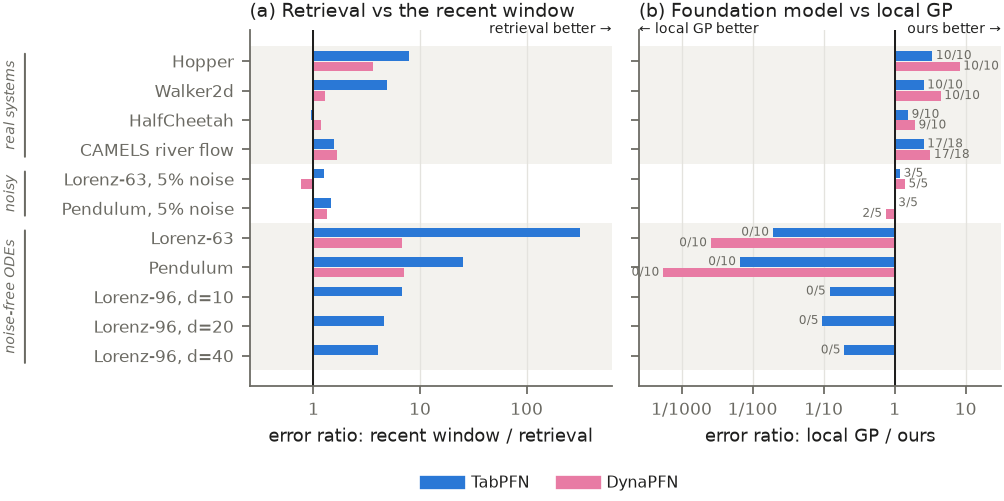
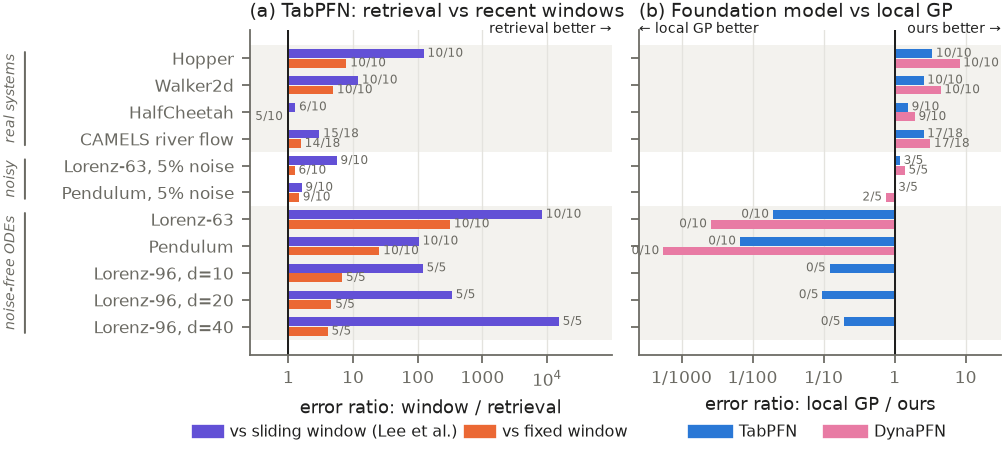
Figure 1a: retrieval vs the sliding window of Lee et al. and the fixed window

diff --git a/code/paper_figures.py b/code/paper_figures.py
@@ -119,18 +119,24 @@ def fig_regime(rows, macros):
     T["window"] = {k: {s_: float(np.sqrt(max(1 - v, 1e-12))) for s_, v in d.items() if np.isfinite(v)}
                    for k, d in N.items()}
     n = len(REGIME_ROWS)
-    fig, (ax, bx) = plt.subplots(1, 2, figsize=(6.5, 3.15), sharey=True)
+    fig, (ax, bx) = plt.subplots(1, 2, figsize=(6.5, 2.95), sharey=True)
     w = 0.36
     for i, (lab, h, st, H, sd) in enumerate(REGIME_ROWS):
         key = "Regime" + MACRO[lab]
-        # (a) retrieval vs recent window, same model; noisy rows use one observation as input (the
-        # lagged runs have no recent-window arm)
+        # (a) TabPFN with retrieval vs the sliding window of Lee et al. and vs the fixed recent window
+        # (same model, same H = 100); noisy rows use one observation as input (the lagged runs have
+        # no recent-window arm)
         st_a = st.replace("+lags4", "") if "noise" in st else st
-        for j, (mdl, c) in enumerate([("tabpfn", BLUE), ("dynapfn", MAGENTA)]):
-            r, b, nn = paired_ratio(T[h], st_a, ("retrieval", 100, mdl), ("recent", 100, mdl))
+        for j, (ctx, c) in enumerate([("sliding", VIOLET), ("recent", ORANGE)]):
+            r, b, nn = paired_ratio(T[h], st_a, ("retrieval", 100, "tabpfn"), (ctx, 100, "tabpfn"))
             if np.isfinite(r):
-                ax.barh(i + (j - 0.5) * w, np.log10(r), height=w * 0.92, color=c)
-                macros[f"{key}RetRecent{'Tab' if j == 0 else 'Dyna'}"] = f"{r:.1f}" if r < 100 else f"{r:.0f}"
+                y = i + (j - 0.5) * w
+                ax.barh(y, np.log10(r), height=w * 0.92, color=c)
+                ax.text(np.log10(r) + (0.06 if r > 1 else -0.06), y, f"{b}/{nn}", fontsize=5.6, color=MUTED,
+                        va="center", ha="left" if r > 1 else "right")
+                tag = "Recent" if ctx == "recent" else "Sliding"
+                macros[f"{key}Ret{tag}Tab"] = f"{r:.1f}" if r < 100 else f"{r:.0f}"
+                macros[f"{key}Ret{tag}TabBetter"] = f"{b}/{nn}"
         # (b) local GP / ours, both with retrieved context
         for j, (mdl, c) in enumerate([("tabpfn", BLUE), ("dynapfn", MAGENTA)]):
             r, b, nn = paired_ratio(T[h], st, ("retrieval", H, mdl), ("retrieval", H, "gp"), sd)
@@ -143,16 +149,18 @@ def fig_regime(rows, macros):
                 macros[f"{key}GPOver{tag}"] = f"{r:.1f}"
                 macros[f"{key}GPOver{tag}Better"] = f"{b}/{nn}"
                 macros[f"{key}GPBetterThan{tag}"] = f"{1 / r:.0f}" if r < 0.1 else f"{1 / r:.1f}"
-    for a_, xl, ttl in [(ax, "error ratio: recent window / retrieval", "(a) Retrieval vs the recent window"),
-                        (bx, "error ratio: local GP / ours", "(b) Foundation model vs local GP")]:
+    for a_, xl, ttl, ticks in [(ax, "error ratio: window / retrieval", "(a) TabPFN: retrieval vs recent windows",
+                                [0, 1, 2, 3, 4]),
+                               (bx, "error ratio: local GP / ours", "(b) Foundation model vs local GP",
+                                [-3, -2, -1, 0, 1])]:
         a_.axvline(0, color=INK, lw=0.9)
         a_.set_title(ttl, loc="left"); a_.set_xlabel(xl); a_.grid(axis="y", visible=False)
-        ticks = [-3, -2, -1, 0, 1, 2, 3]
-        a_.set_xticks(ticks); a_.set_xticklabels([f"{10.0 ** t:g}" if t >= 0 else f"1/{10 ** -t}" for t in ticks])
+        a_.set_xticks(ticks)
+        a_.set_xticklabels([(f"{10.0 ** t:g}" if t < 4 else "$10^4$") if t >= 0 else f"1/{10 ** -t}" for t in ticks])
         for g0, g1 in [(-0.5, 3.5), (5.5, n - 0.5)]:
             a_.axhspan(g0, g1, color=SHADE, zorder=0, lw=0)
-    ax.set_xlim(-0.6, 2.8); bx.set_xlim(-3.6, 1.5)
-    ax.text(2.8, -0.95, "retrieval better " + RIGHT, ha="right", fontsize=6.5)
+    ax.set_xlim(-0.6, 5.0); bx.set_xlim(-3.6, 1.5)
+    ax.text(5.0, -0.95, "retrieval better " + RIGHT, ha="right", fontsize=6.5)
     bx.text(1.5, -0.95, "ours better " + RIGHT, ha="right", fontsize=6.5)
     bx.text(-3.6, -0.95, LEFT + " local GP better", ha="left", fontsize=6.5)
     ax.set_yticks(range(n)); ax.set_yticklabels([r[0] for r in REGIME_ROWS]); ax.invert_yaxis()
@@ -161,9 +169,12 @@ def fig_regime(rows, macros):
                     arrowprops=dict(arrowstyle="-", color=MUTED, lw=0.9), annotation_clip=False)
         ax.text(-0.66, (y0 + y1) / 2, g, transform=ax.get_yaxis_transform(), rotation=90, fontsize=6.5,
                 color=MUTED, ha="center", va="center", style="italic")
-    fig.legend([Line2D([], [], color=BLUE, lw=6), Line2D([], [], color=MAGENTA, lw=6)],
-               ["TabPFN", "DynaPFN"], loc="lower center", ncol=2, frameon=False, bbox_to_anchor=(0.55, -0.04))
-    fig.tight_layout(rect=(0, 0.04, 1, 1))
+    fig.tight_layout(rect=(0, 0.035, 1, 1))
+    ax.legend([Line2D([], [], color=VIOLET, lw=6), Line2D([], [], color=ORANGE, lw=6)],
+              ["vs sliding window (Lee et al.)", "vs fixed window"], loc="upper center", ncol=2,
+              frameon=False, bbox_to_anchor=(0.45, -0.17), handlelength=1.2, columnspacing=0.8)
+    bx.legend([Line2D([], [], color=BLUE, lw=6), Line2D([], [], color=MAGENTA, lw=6)],
+              ["TabPFN", "DynaPFN"], loc="upper center", ncol=2, frameon=False, bbox_to_anchor=(0.5, -0.17))
     save(fig, "regime")
 
 
